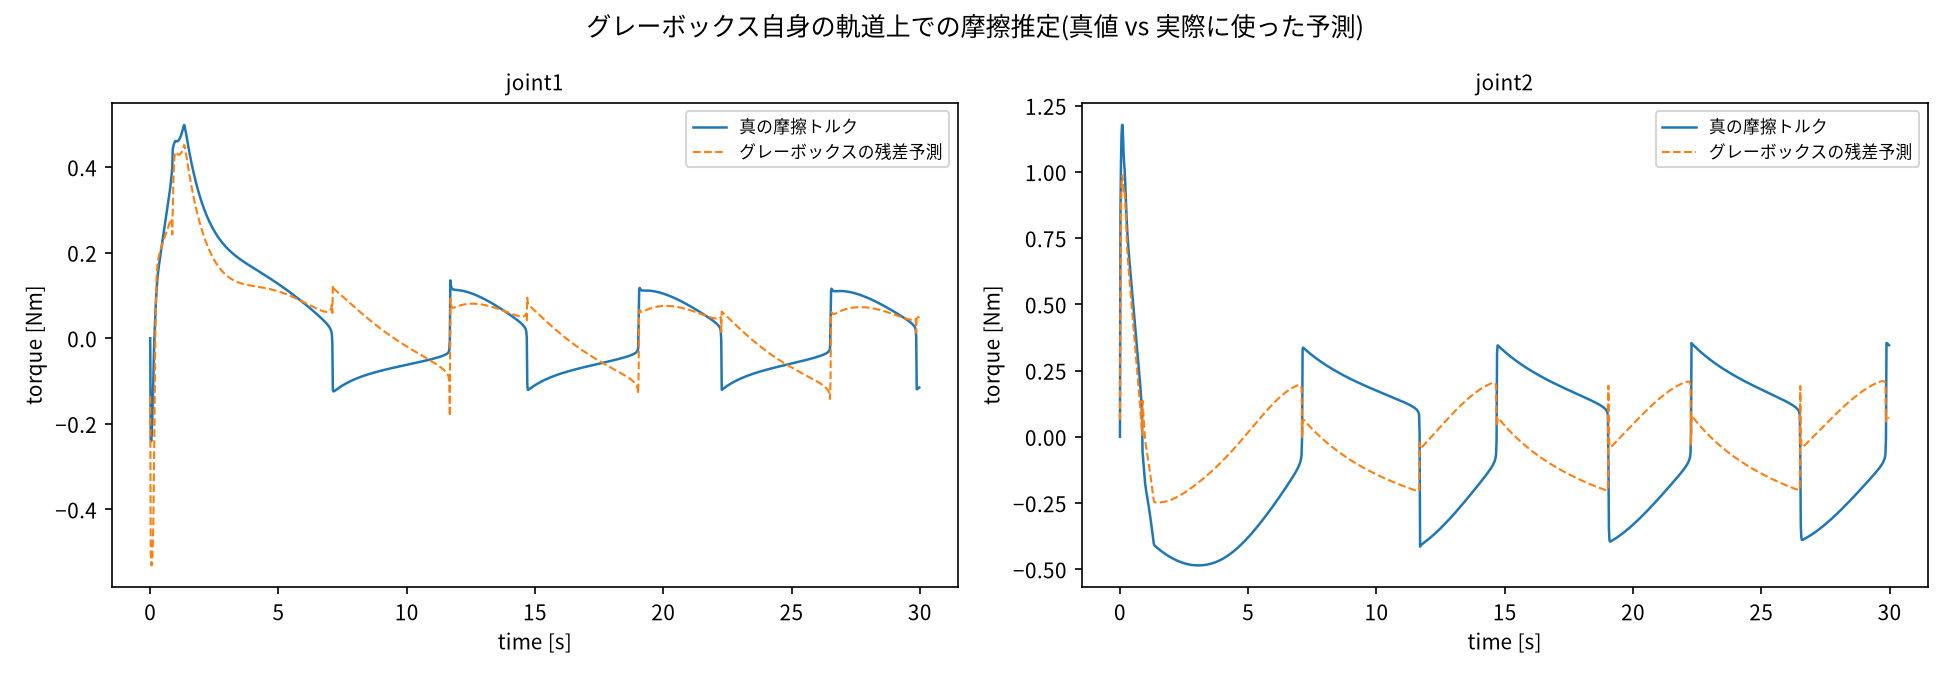
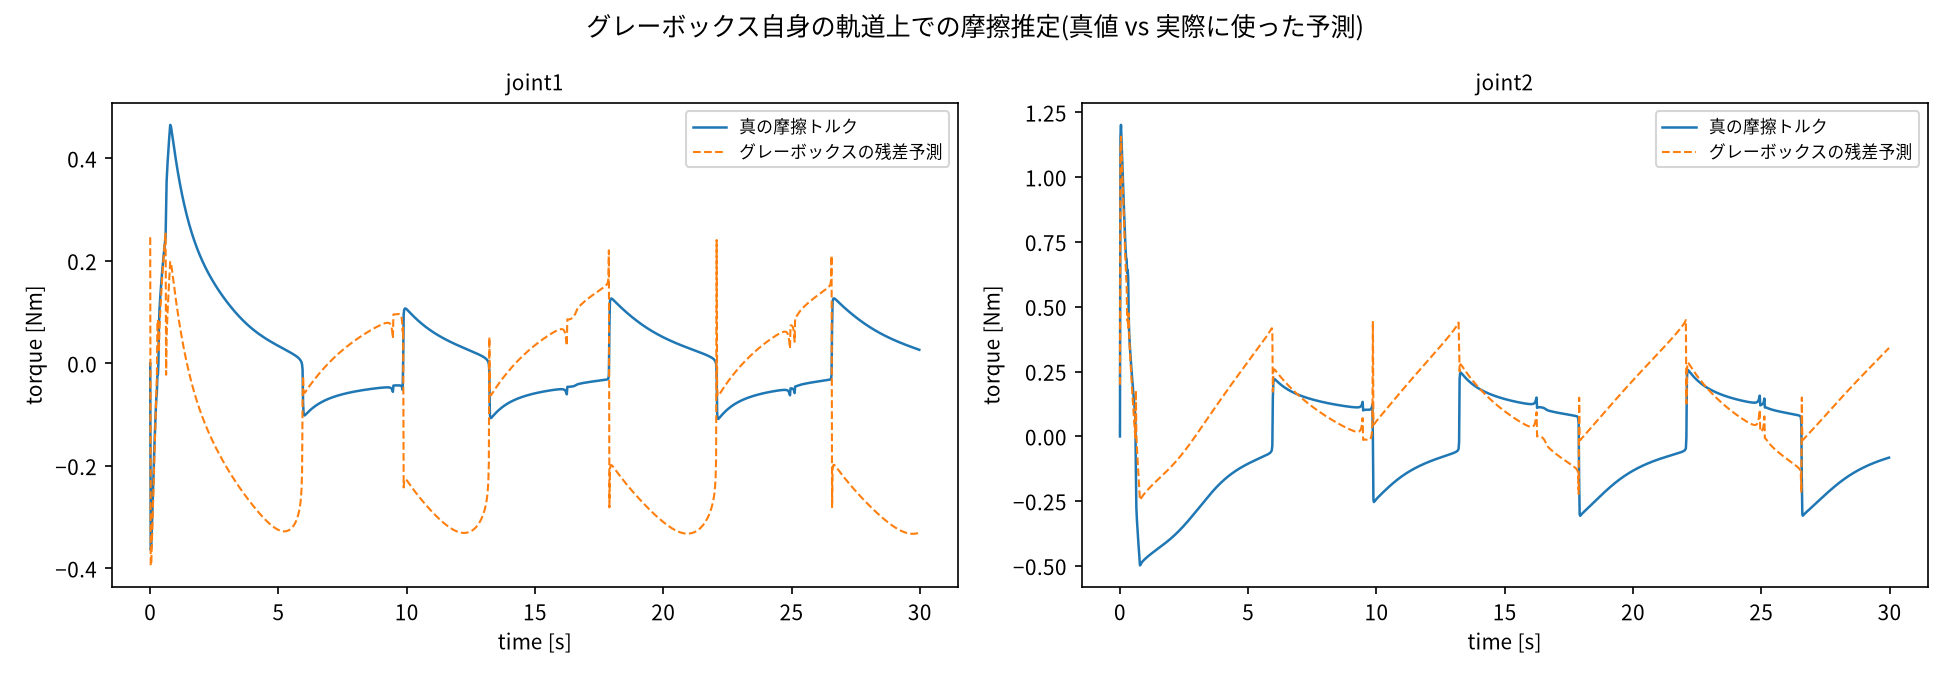
Phase2-M5: C_VISCOUSを2.0から1.0に緩和し摩擦学習の負荷を軽減 (#32)
Phase2-M4で判明した「C_VISCOUS=2.0が大きすぎて残差ネットが学習しきれない」
問題への対応として、C_VISCOUSを2.0→1.0に緩和した(dataset_vertical.pyの
棄却サンプリングと併用し、角速度暴走は引き続き防止)。

結果:
- PTP成功数: 3/12→5/12(部分的な改善)
- 代表IC([0,0,0,0])の持続振動は解消せず
- 摩擦推定誤差RMS: joint1/joint2ともに0.26/0.27程度で高止まり

C_VISCOUSをこれ以上下げると棄却サンプリングの採択率が急落する
(0.7→23%, 0.5→8%)ため、この軸だけでの追い込みは限界と判断。
学習レシピの強化との組み合わせが次の課題として残る。

Claude-Session: https://claude.ai/code/session_01Rvrf6mcbh1UrexApn66z2b

diff --git a/src/physics_vertical.py b/src/physics_vertical.py
@@ -21,8 +21,11 @@ GRAVITY = 9.81
 # Phase2-M2 (#25): 水平面版と同じ摩擦係数(0.05)では、重力+リンク2の小さい慣性に
 # よるカオス的な二重振り子効果でランダムIC・ランダムトルクの軌道がほぼ全て
 # 角速度数十rad/s(非現実的)まで発散することが判明した。実機ロボットアームの
-# 減速機・モータ由来の粘性摩擦を模して大幅に引き上げ、現実的な速度域に収める。
-C_VISCOUS = np.array([2.0, 2.0])
+# 減速機・モータ由来の粘性摩擦を模して引き上げ、現実的な速度域に収める。
+# Phase2-M5 (#31): M2時点では2.0としたが、M4でこの値が大きすぎて残差ネットが
+# 摩擦の線形ゲインを学習しきれず、PTP制御が持続振動することが判明。
+# dataset_vertical.pyの棄却サンプリング(角速度上限)と併用する前提で1.0に緩和。
+C_VISCOUS = np.array([1.0, 1.0])
 C_COULOMB = np.array([0.02, 0.02])
 V_STRIBECK = 0.03
 

diff --git a/README.md b/README.md
@@ -164,6 +164,18 @@ pip install -r requirements.txt
   ある系では、既知の物理構造を使っても残る摩擦推定誤差が閉ループ制御下で
   拡大しやすく、グレーボックス化だけでは実用レベルの制御精度に届かない
   ことが判明。追加調査は別Issueで継続する。
+- **Phase2-M4** (完了, #29): PTP持続振動の原因を診断。グレーボックス自身の
+  閉ループ軌道は減衰しないリミットサイクルを示し、その軌道上での摩擦推定を
+  見るとjoint2で真値(振幅±0.5Nm)を大幅に下回る(±0.2Nm程度)過小評価が
+  判明。C_VISCOUS=2.0(Phase1比40倍)という大きな係数を残差ネットが
+  十分学習できていないことが根本原因と特定した。
+- **Phase2-M5** (完了, #31): C_VISCOUSを2.0→1.0に緩和(データ生成の棄却
+  サンプリングと併用し、角速度暴走は引き続き防止)。PTP成功数は3/12→5/12に
+  改善したが、代表ICの持続振動は解消せず、摩擦推定誤差も同程度の大きさ
+  (joint1/joint2 RMS: 0.26/0.27)のまま残った。C_VISCOUSをこれ以上下げると
+  棄却サンプリングの採択率が急落し(0.7→23%, 0.5→8%)データ品質が悪化する
+  ため、この軸だけでの追い込みは限界と判断。学習レシピ(データ量・エポック
+  数・ネットワーク容量)の強化との組み合わせが次の課題として残る。
 
 ## ディレクトリ構成
 
